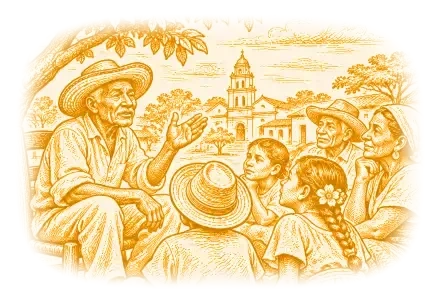
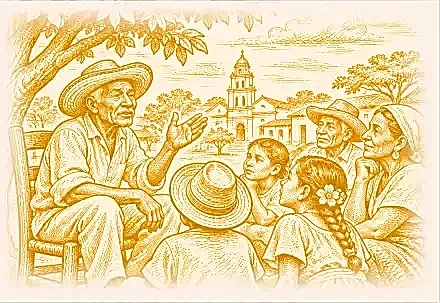
feat(historia): extraer ilustraciones ultra nitidas del mosaico para capitulos y aumentar separacion de la galeria

diff --git a/src/app/pages/historia/historia.css b/src/app/pages/historia/historia.css
@@ -323,7 +323,8 @@
   display: block;
   mix-blend-mode: multiply;
   transition: transform 0.4s ease;
-  filter: contrast(1.04) saturate(1.12);
+  filter: contrast(1.10) saturate(1.12);
+  image-rendering: -webkit-optimize-contrast;
 }
 
 .featured-card-frame:hover .featured-card-img {
@@ -401,14 +402,14 @@
   transform: scale(1.1);
 }
 
-/* 6. CUADRÍCULA DE TODAS LAS ILUSTRACIONES HISTÓRICAS (3 COLUMNAS, CUADRADAS Y COMPACTAS) */
+/* 6. CUADRÍCULA DE TODAS LAS ILUSTRACIONES HISTÓRICAS (3 COLUMNAS, CUADRADAS Y BIEN SEPARADAS) */
 .historia-gallery-grid {
   display: grid;
   grid-template-columns: repeat(3, 1fr);
-  gap: clamp(18px, 2.5vw, 32px) clamp(22px, 3.2vw, 40px);
-  max-width: 760px;
+  gap: clamp(38px, 5vw, 64px) clamp(34px, 4.8vw, 62px);
+  max-width: 860px;
   margin: 0 auto;
-  padding: 0 16px clamp(40px, 5vw, 68px);
+  padding: 0 16px clamp(44px, 6vw, 76px);
   align-items: center;
   justify-items: center;
 }
@@ -458,7 +459,8 @@
   border-radius: 0;
   mix-blend-mode: multiply;
   transition: transform 0.3s cubic-bezier(0.2, 0.9, 0.3, 1), filter 0.3s ease;
-  filter: contrast(1.04) saturate(1.12);
+  filter: contrast(1.10) saturate(1.12);
+  image-rendering: -webkit-optimize-contrast;
 }
 
 .gallery-item-card:hover .gallery-thumb-img {
@@ -486,7 +488,7 @@
 
   .historia-gallery-grid {
     grid-template-columns: repeat(2, 1fr);
-    gap: 24px 30px;
+    gap: 38px 46px;
   }
 }
 
@@ -550,7 +552,7 @@
 
   .historia-gallery-grid {
     grid-template-columns: 1fr;
-    gap: 20px;
+    gap: 34px;
   }
 
   .gallery-thumb-img {
